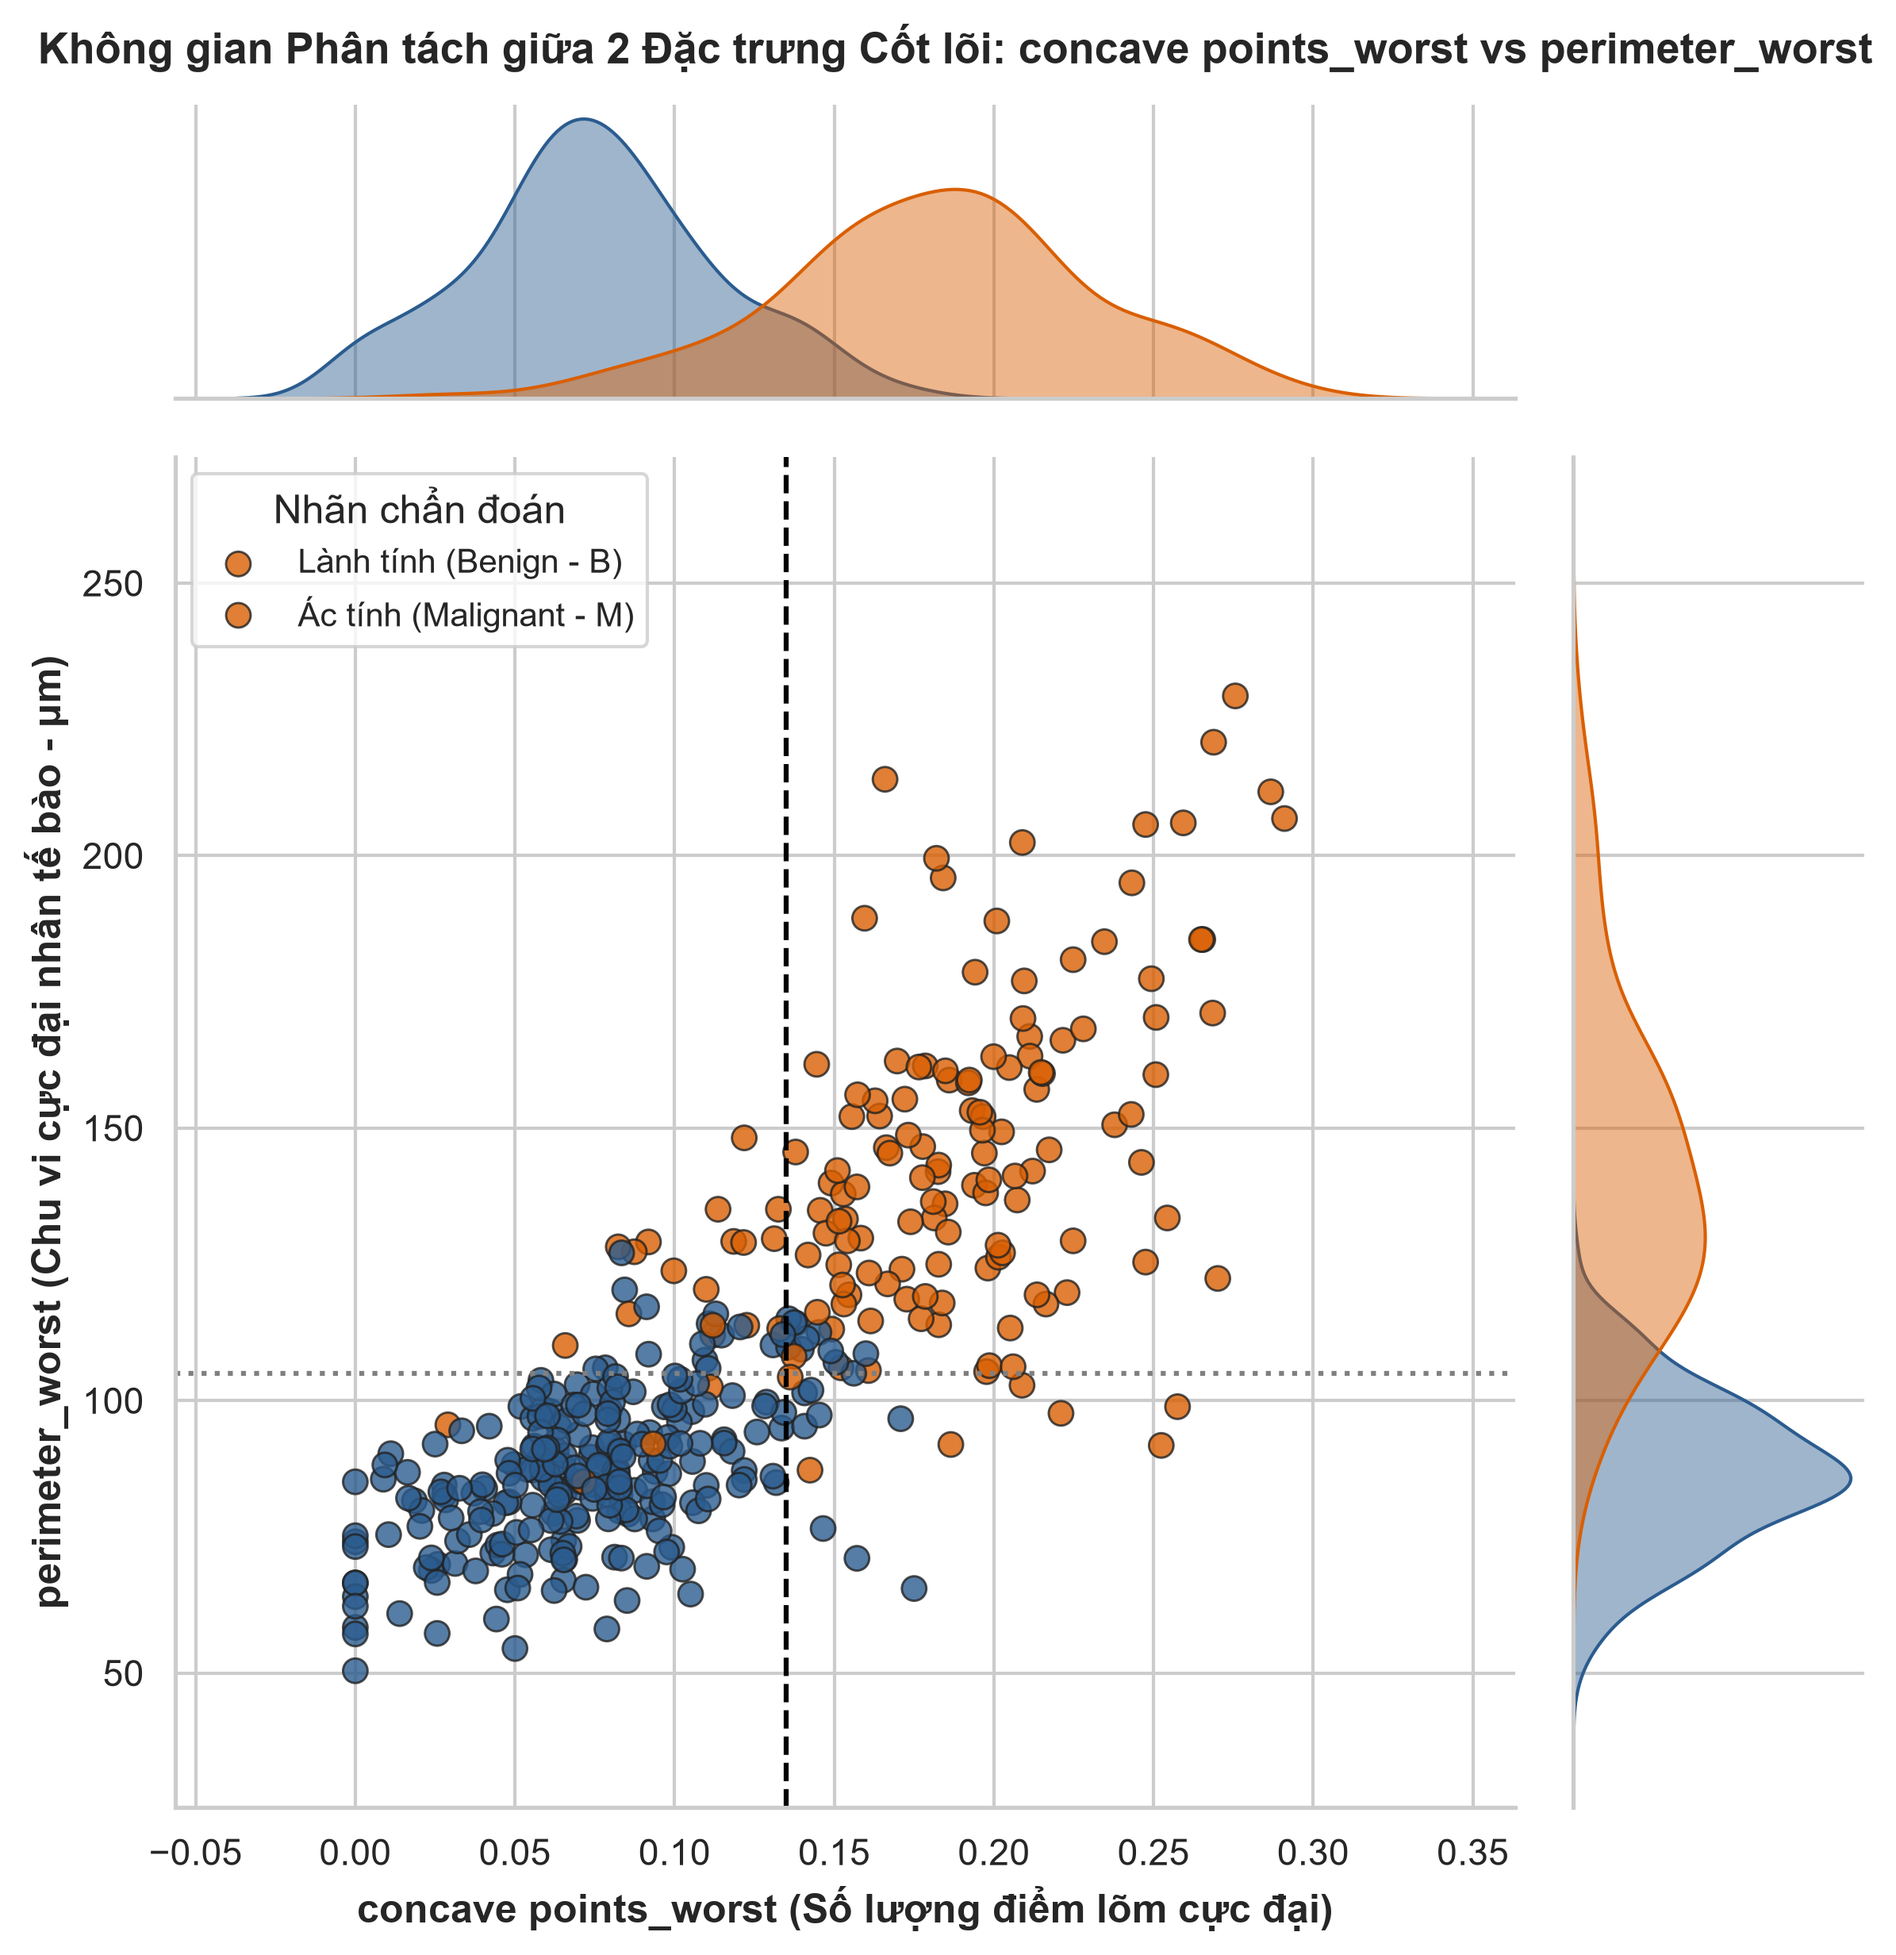
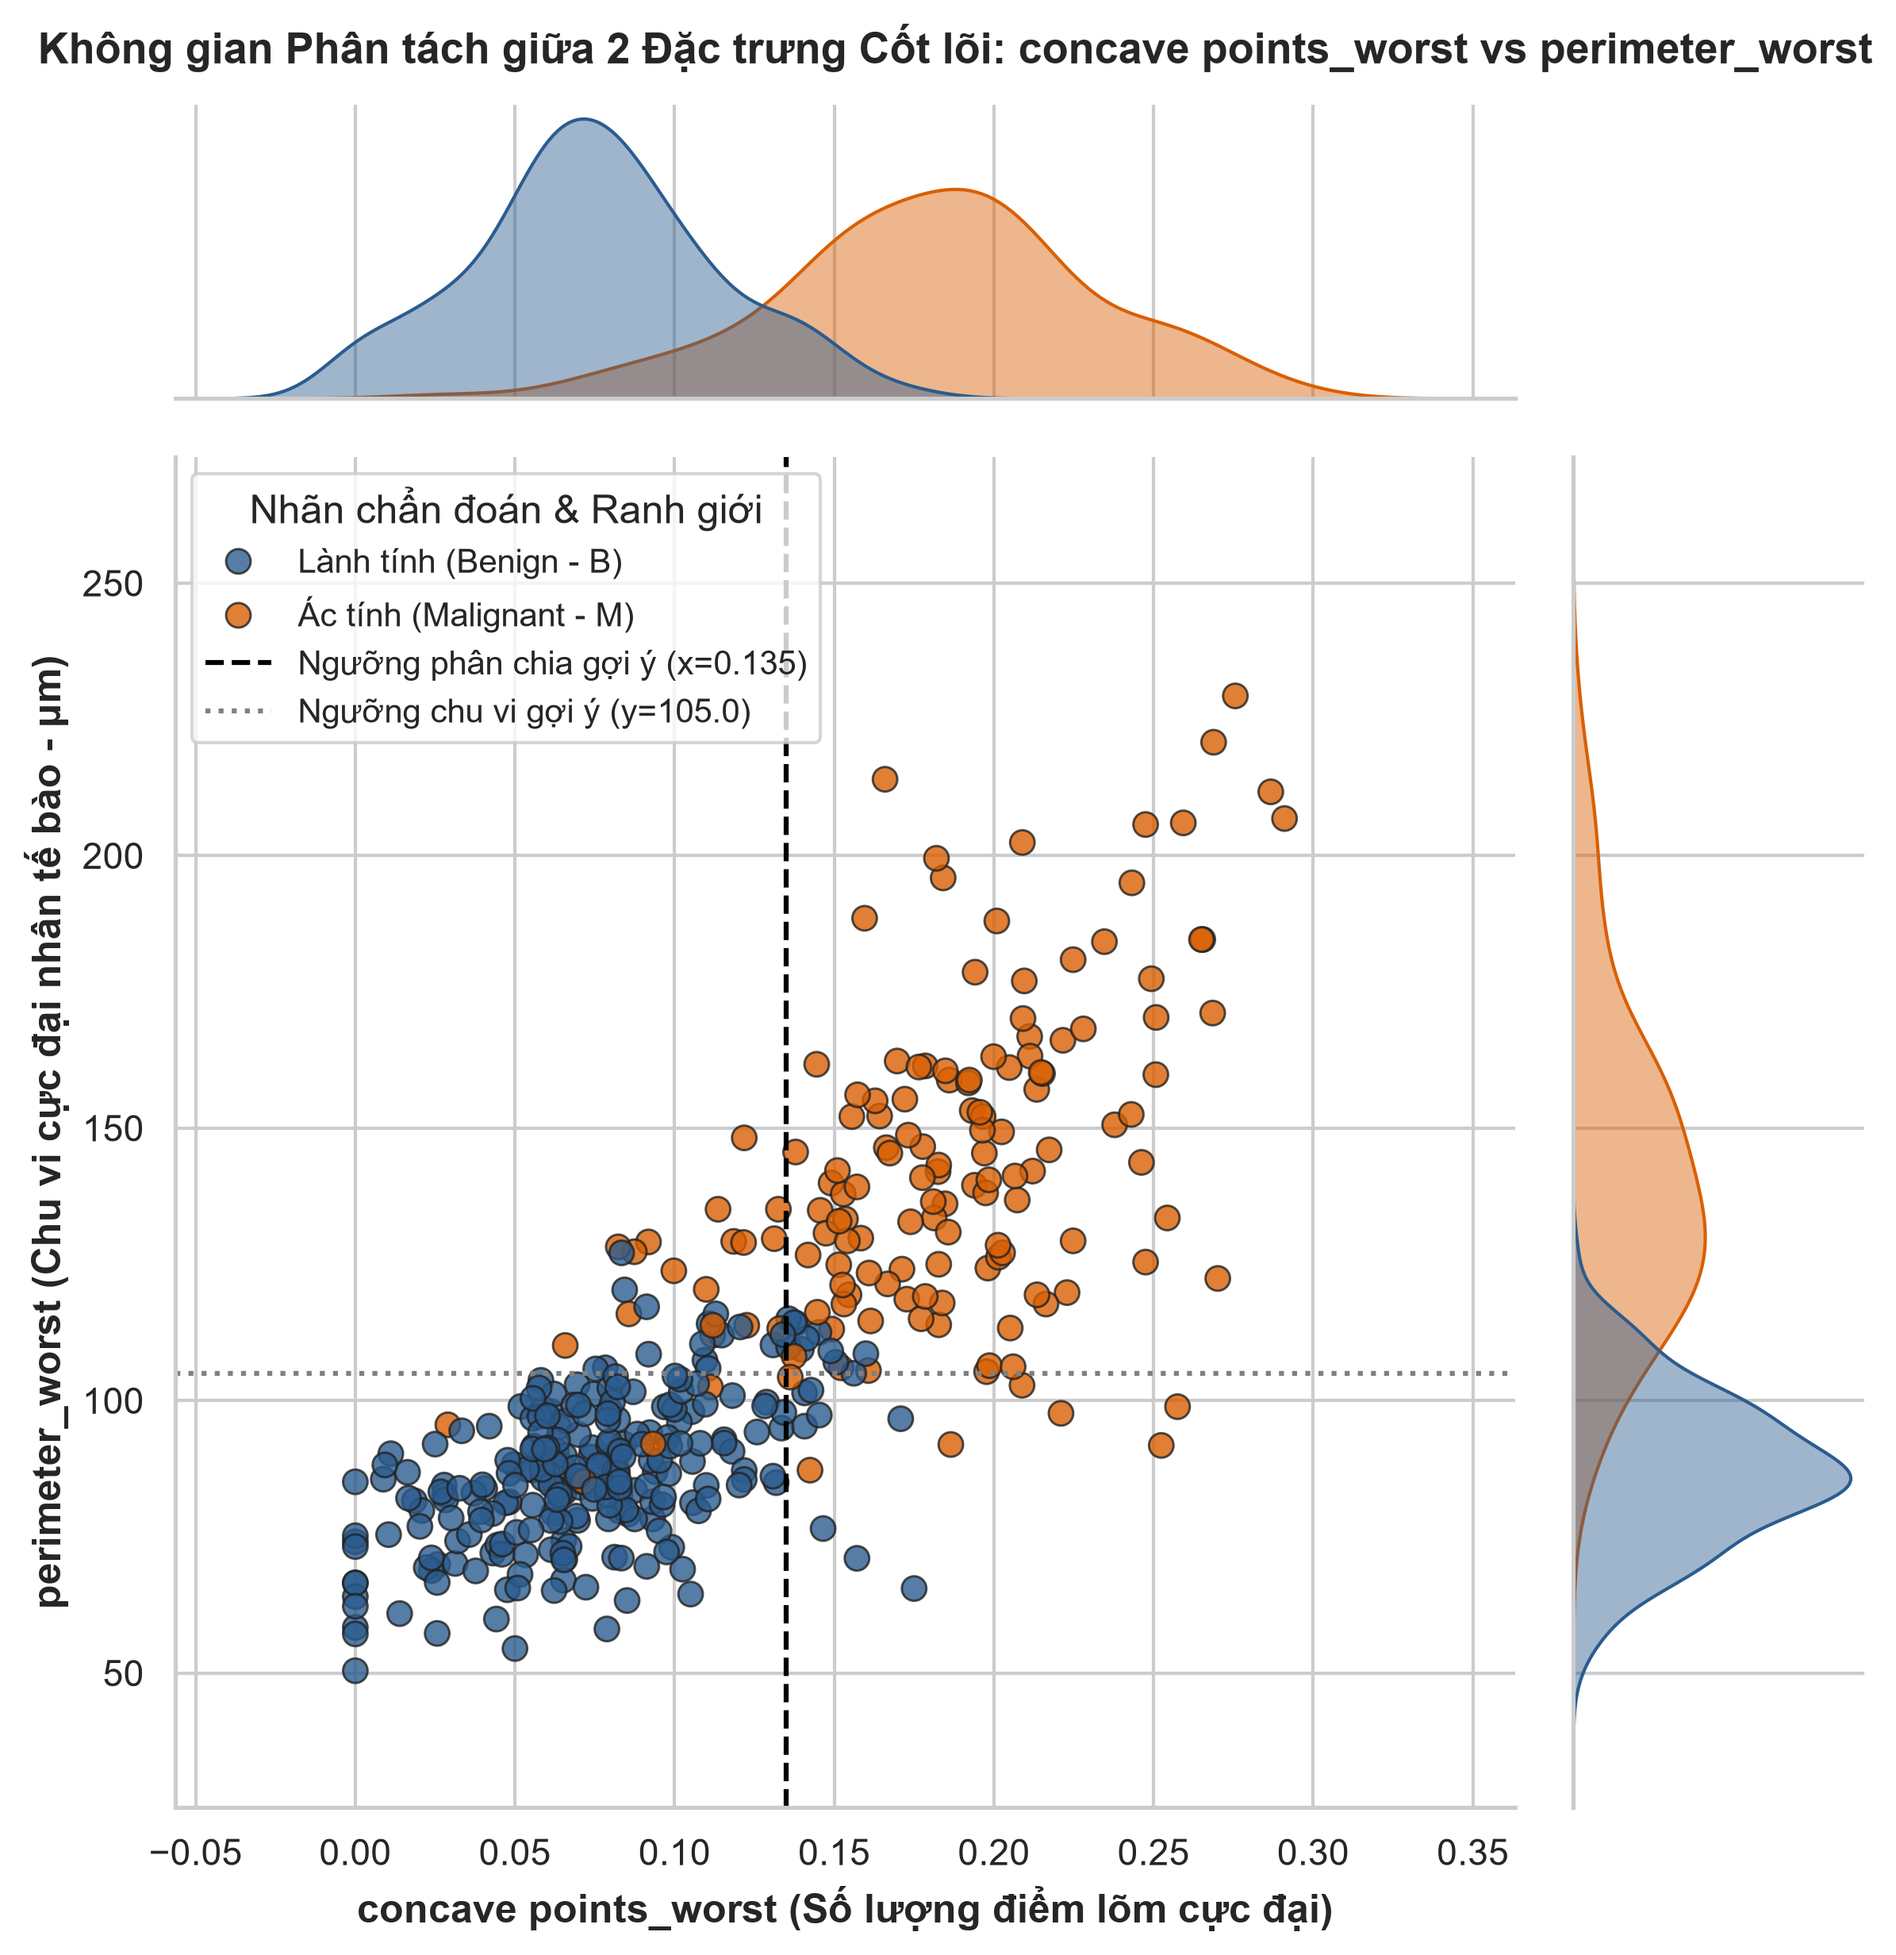
Update kịch bản thuyết trình

Changed region(s): [[0.0929, 0.25, 0.4335, 0.375], [0.2477, 0.1562, 0.4954, 0.2188], [0.805, 0.6562, 0.8669, 0.7812]]

diff --git a/backend/src/eda.py b/backend/src/eda.py
@@ -120,7 +120,8 @@ def plot_feature_histograms(df_train: pd.DataFrame, key_features: list, save_pat
 
     for idx, feature in enumerate(key_features):
         ax = axes[idx]
-        for label, group in df_train.groupby(TARGET_COLUMN):
+        for label in [NEGATIVE_CLASS, POSITIVE_CLASS]:
+            group = df_train[df_train[TARGET_COLUMN] == label]
             sns.histplot(
                 group[feature],
                 kde=True,
@@ -158,6 +159,8 @@ def plot_feature_boxplots(df_train: pd.DataFrame, key_features: list, save_path:
             y=feature,
             hue=TARGET_COLUMN,
             palette=COLOR_PALETTE,
+            order=[NEGATIVE_CLASS, POSITIVE_CLASS],
+            hue_order=[NEGATIVE_CLASS, POSITIVE_CLASS],
             legend=False,
             ax=ax,
             width=0.4,
@@ -166,7 +169,7 @@ def plot_feature_boxplots(df_train: pd.DataFrame, key_features: list, save_path:
         )
         ax.set_title(f"Boxplot: {feature}", fontsize=12, fontweight="bold")
         ax.set_xticks([0, 1])
-        ax.set_xticklabels([LABEL_NAMES["B"], LABEL_NAMES["M"]], fontsize=10)
+        ax.set_xticklabels([LABEL_NAMES[NEGATIVE_CLASS], LABEL_NAMES[POSITIVE_CLASS]], fontsize=10)
         ax.set_xlabel("")
         ax.set_ylabel(feature, fontsize=10)
 
@@ -220,17 +223,33 @@ def plot_discriminative_features(df_train: pd.DataFrame, save_path: Path):
     feat_x = "concave points_worst"
     feat_y = "perimeter_worst"
 
-    g = sns.JointGrid(data=df_train, x=feat_x, y=feat_y, hue=TARGET_COLUMN, palette=COLOR_PALETTE, height=8, ratio=4)
+    g = sns.JointGrid(
+        data=df_train,
+        x=feat_x,
+        y=feat_y,
+        hue=TARGET_COLUMN,
+        palette=COLOR_PALETTE,
+        hue_order=[NEGATIVE_CLASS, POSITIVE_CLASS],
+        height=8,
+        ratio=4
+    )
     g.plot_joint(sns.scatterplot, s=55, alpha=0.8, edgecolor="#222", linewidth=0.7)
     g.plot_marginals(sns.kdeplot, fill=True, common_norm=False, alpha=0.45)
 
     g.ax_joint.set_xlabel(f"{feat_x} (Số lượng điểm lõm cực đại)", fontsize=12, fontweight="bold")
     g.ax_joint.set_ylabel(f"{feat_y} (Chu vi cực đại nhân tế bào - μm)", fontsize=12, fontweight="bold")
-    g.ax_joint.legend(title="Nhãn chẩn đoán", labels=[LABEL_NAMES["B"], LABEL_NAMES["M"]], loc="upper left", fontsize=10)
 
     # Thêm ngưỡng phân chia tiềm năng trực quan (minh họa cách Decision Tree cắt không gian)
     g.ax_joint.axvline(x=0.135, color="black", linestyle="--", linewidth=1.5, label="Ngưỡng phân chia gợi ý (x=0.135)")
     g.ax_joint.axhline(y=105.0, color="gray", linestyle=":", linewidth=1.5, label="Ngưỡng chu vi gợi ý (y=105.0)")
+
+    handles, labels = g.ax_joint.get_legend_handles_labels()
+    label_map = {
+        NEGATIVE_CLASS: LABEL_NAMES[NEGATIVE_CLASS],
+        POSITIVE_CLASS: LABEL_NAMES[POSITIVE_CLASS],
+    }
+    clean_labels = [label_map.get(l, l) for l in labels]
+    g.ax_joint.legend(handles=handles, labels=clean_labels, title="Nhãn chẩn đoán & Ranh giới", loc="upper left", fontsize=10)
 
     plt.suptitle("Không gian Phân tách giữa 2 Đặc trưng Cốt lõi: concave points_worst vs perimeter_worst", fontsize=13, y=1.02, fontweight="bold")
     plt.savefig(save_path, bbox_inches="tight", dpi=300)
